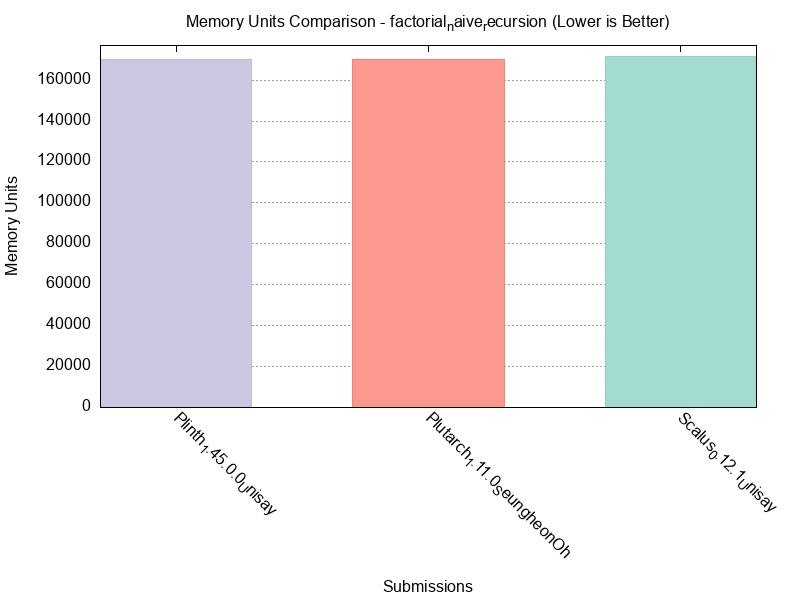
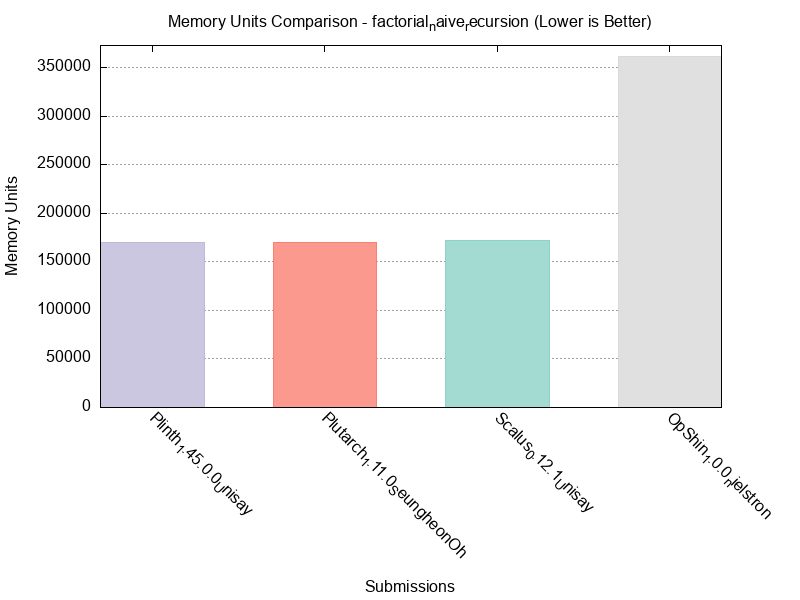
Standardize OpShin compiler name casing
Update OpShin submissions to use consistent capitalization throughout:
- Changed compiler name from "opshin" to "OpShin" in metadata.json files
- Updated README.md files to reference "OpShin" consistently
- Regenerated HTML reports and chart images with correct casing

This aligns OpShin with other compiler naming conventions in the repository
(Scalus, Aiken, Plutarch, Plinth).

Affected submissions:
- submissions/fibonacci/OpShin_1.0.0_nielstron/
- submissions/factorial_naive_recursion/OpShin_1.0.0_nielstron/

diff --git a/report/index.html b/report/index.html
@@ -232,7 +232,7 @@
     </div>
 
     <div class="timestamp">
-        Generated on: 2025-10-17 14:28:21 CEST
+        Generated on: 2025-10-17 16:00:36 CEST
     </div>
     
     <!-- Benchmark Summary Table -->
@@ -351,7 +351,7 @@
                     </div>
                     <div class="count">
                         
-                            (3 submissions)
+                            (4 submissions)
                         
                     </div>
                 </div>
@@ -371,6 +371,27 @@
                             </tr>
                         </thead>
                         <tbody>
+                            
+                            <tr data-cpu="72921975" data-memory="361790" data-script="88" data-term="104">
+                                <td>OpShin</td>
+                                <td>0.26.1</td>
+                                <td>Niels Mündler</td>
+                                <td>2025-10-16</td>
+                                <td class="numeric">
+                                    <span class="tooltip">
+                                        <span class="cpu-value">72.92M</span>
+                                        <span class="tooltiptext">72921975</span>
+                                    </span>
+                                </td>
+                                <td class="numeric">
+                                    <span class="tooltip">
+                                        <span class="memory-value">361.79K</span>
+                                        <span class="tooltiptext">361790</span>
+                                    </span>
+                                </td>
+                                <td class="numeric script-value">88</td>
+                                <td class="numeric term-value">104</td>
+                            </tr>
                             
                             <tr data-cpu="42281975" data-memory="170290" data-script="42" data-term="40">
                                 <td>Plinth</td>
@@ -449,7 +470,7 @@
                     </div>
                     <div class="count">
                         
-                            (3 submissions)
+                            (4 submissions)
                         
                     </div>
                 </div>
@@ -469,6 +490,27 @@
                             </tr>
                         </thead>
                         <tbody>
+                            
+                            <tr data-cpu="240131414" data-memory="1306476" data-script="227" data-term="285">
+                                <td>OpShin</td>
+                                <td>0.26.1</td>
+                                <td>Niels Mündler</td>
+                                <td>2025-10-16</td>
+                                <td class="numeric">
+                                    <span class="tooltip">
+                                        <span class="cpu-value">240.13M</span>
+                                        <span class="tooltiptext">240131414</span>
+                                    </span>
+                                </td>
+                                <td class="numeric">
+                                    <span class="tooltip">
+                                        <span class="memory-value">1.31M</span>
+                                        <span class="tooltiptext">1306476</span>
+                                    </span>
+                                </td>
+                                <td class="numeric script-value">227</td>
+                                <td class="numeric term-value">285</td>
+                            </tr>
                             
                             <tr data-cpu="175015705630" data-memory="641935762" data-script="81" data-term="73">
                                 <td>Plutarch</td>

diff --git a/report/benchmarks/factorial_naive_recursion.html b/report/benchmarks/factorial_naive_recursion.html
@@ -175,7 +175,7 @@
     </div>
 
     <div class="timestamp">
-        Generated on: 2025-10-17 14:28:02 CEST
+        Generated on: 2025-10-17 16:00:17 CEST
     </div>
     
     <div class="benchmark-section">
@@ -253,6 +253,18 @@
                     <td class="numeric">53</td>
                     <td><a href="https://github.com/IntersectMBO/UPLC-CAPE/blob/main/submissions/factorial_naive_recursion/Scalus_0.12.1_Unisay/source/README.md" target="_blank" rel="noopener">📁</a></td>
                     <td><a href="https://github.com/IntersectMBO/UPLC-CAPE/blob/main/submissions/factorial_naive_recursion/Scalus_0.12.1_Unisay/factorial_naive_recursion.uplc" target="_blank" rel="noopener">🔗</a></td>
+                </tr>
+                <tr>
+                    <td>2025-10-16T07:52:09Z</td>
+                    <td>OpShin</td>
+                    <td>0.26.1</td>
+                    <td>Niels Mündler</td>
+                    <td class="numeric">72921975</td>
+                    <td class="numeric">361790</td>
+                    <td class="numeric">88</td>
+                    <td class="numeric">104</td>
+                    <td><a href="https://github.com/IntersectMBO/UPLC-CAPE/blob/main/submissions/factorial_naive_recursion/OpShin_1.0.0_nielstron/source/README.md" target="_blank" rel="noopener">📁</a></td>
+                    <td><a href="https://github.com/IntersectMBO/UPLC-CAPE/blob/main/submissions/factorial_naive_recursion/OpShin_1.0.0_nielstron/factorial_naive_recursion.uplc" target="_blank" rel="noopener">🔗</a></td>
                 </tr>
             </tbody>
         </table>

diff --git a/report/benchmarks/fibonacci.html b/report/benchmarks/fibonacci.html
@@ -175,7 +175,7 @@
     </div>
 
     <div class="timestamp">
-        Generated on: 2025-10-17 14:28:07 CEST
+        Generated on: 2025-10-17 16:00:23 CEST
     </div>
     
     <div class="benchmark-section">
@@ -218,6 +218,18 @@
                 </tr>
             </thead>
             <tbody>
+                <tr>
+                    <td>2025-10-16T07:55:04Z</td>
+                    <td>OpShin</td>
+                    <td>0.26.1</td>
+                    <td>Niels Mündler</td>
+                    <td class="numeric">240131414</td>
+                    <td class="numeric">1306476</td>
+                    <td class="numeric">227</td>
+                    <td class="numeric">285</td>
+                    <td><a href="https://github.com/IntersectMBO/UPLC-CAPE/blob/main/submissions/fibonacci/OpShin_1.0.0_nielstron/source/README.md" target="_blank" rel="noopener">📁</a></td>
+                    <td><a href="https://github.com/IntersectMBO/UPLC-CAPE/blob/main/submissions/fibonacci/OpShin_1.0.0_nielstron/fibonacci.uplc" target="_blank" rel="noopener">🔗</a></td>
+                </tr>
                 <tr>
                     <td>2025-10-17T12:24:37Z</td>
                     <td>Plutarch</td>

diff --git a/report/benchmarks/factorial.html b/report/benchmarks/factorial.html
@@ -175,7 +175,7 @@
     </div>
 
     <div class="timestamp">
-        Generated on: 2025-10-17 14:27:57 CEST
+        Generated on: 2025-10-17 16:00:13 CEST
     </div>
     
     <div class="benchmark-section">

diff --git a/report/benchmarks/fibonacci_naive_recursion.html b/report/benchmarks/fibonacci_naive_recursion.html
@@ -175,7 +175,7 @@
     </div>
 
     <div class="timestamp">
-        Generated on: 2025-10-17 14:28:13 CEST
+        Generated on: 2025-10-17 16:00:28 CEST
     </div>
     
     <div class="benchmark-section">

diff --git a/report/benchmarks/two-party-escrow.html b/report/benchmarks/two-party-escrow.html
@@ -175,7 +175,7 @@
     </div>
 
     <div class="timestamp">
-        Generated on: 2025-10-17 14:28:18 CEST
+        Generated on: 2025-10-17 16:00:33 CEST
     </div>
     
     <div class="benchmark-section">

diff --git a/submissions/factorial_naive_recursion/OpShin_1.0.0_nielstron/README.md b/submissions/factorial_naive_recursion/OpShin_1.0.0_nielstron/README.md
@@ -6,7 +6,7 @@
 
 ## Implementation Details
 
-- **Compiler**: `opshin`
+- **Compiler**: `OpShin`
 - **Implementation Approach**: naive recursion as prescribed.
 
 ## Performance Results

diff --git a/submissions/fibonacci/OpShin_1.0.0_nielstron/README.md b/submissions/fibonacci/OpShin_1.0.0_nielstron/README.md
@@ -6,7 +6,7 @@
 
 ## Implementation Details
 
-- **Compiler**: `opshin`
+- **Compiler**: `OpShin`
 - **Implementation Approach**: `iterative`
 
 ## Performance Results
